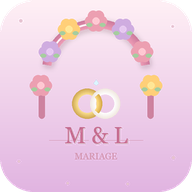
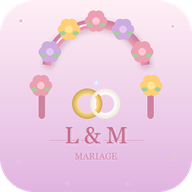
Inversion L & M : Leslie Vo en 1ère, Maxime Wolff en 2ème

Changed region(s): [[0.3438, 0.6562, 0.6875, 0.75]]

diff --git a/index.html b/index.html
@@ -99,7 +99,7 @@
   ctx.shadowBlur = 8;
   ctx.fillStyle = 'rgba(255,255,255,0.98)';
   ctx.font = 'bold 68px Georgia, serif';
-  ctx.fillText('M & L', 256, 418);
+  ctx.fillText('L & M', 256, 418);
   ctx.shadowBlur = 0;
 
   // Petites étoiles décoratives
@@ -358,9 +358,9 @@
 <div id="tab-accueil" class="tab active">
   <div class="card" style="background:linear-gradient(135deg,#fdf0f4,#fdf7e8); border-color:var(--rose);">
     <div style="display:flex;gap:12px;align-items:center;justify-content:center;flex-wrap:wrap;padding:8px 0;">
-      <span style="font-size:1.15rem;font-weight:600;color:var(--text);">Maxime Wolff</span>
-      <span style="font-size:1.3rem;">&#10084;</span>
       <span style="font-size:1.15rem;font-weight:600;color:var(--text);">Leslie Vo</span>
+      <span style="font-size:1.3rem;">&#10084;</span>
+      <span style="font-size:1.15rem;font-weight:600;color:var(--text);">Maxime Wolff</span>
     </div>
     <div class="countdown" id="countdown-display">
       <div class="count-unit"><div class="count-num" id="cd-days">—</div><div class="count-lbl">jours</div></div>
@@ -731,7 +731,7 @@
 <script>
 // ===== STATE =====
 let state = {
-  couple: { name1: 'Maxime Wolff', name2: 'Leslie Vo', date: '', lieu: '', locked: true },
+  couple: { name1: 'Leslie Vo', name2: 'Maxime Wolff', date: '', lieu: '', locked: true },
   guests: [],
   budget: { total: 0, items: [] },
   hotels: [],
@@ -1008,8 +1008,8 @@ function renderGuests() {
     tr.innerHTML = `
       <td><strong>${g.prenom} ${g.nom}</strong>${g.email ? '<br><small style="color:var(--text-light)">'+g.email+'</small>' : ''}</td>
       <td>${
-        g.cote === 'marie1' ? `<span style="background:#f0e8fd;color:#7b4fc9;padding:2px 8px;border-radius:10px;font-size:0.78rem;font-weight:600;">&#128100; ${state.couple.name1||'Marié·e 1'}</span>` :
-        g.cote === 'marie2' ? `<span style="background:#fde8f0;color:#c9748f;padding:2px 8px;border-radius:10px;font-size:0.78rem;font-weight:600;">&#128100; ${state.couple.name2||'Marié·e 2'}</span>` :
+        g.cote === 'marie1' ? `<span style="background:#fde8f0;color:#c9748f;padding:2px 8px;border-radius:10px;font-size:0.78rem;font-weight:600;">&#128100; ${state.couple.name1||'Mariée 1'}</span>` :
+        g.cote === 'marie2' ? `<span style="background:#f0e8fd;color:#7b4fc9;padding:2px 8px;border-radius:10px;font-size:0.78rem;font-weight:600;">&#128100; ${state.couple.name2||'Marié 2'}</span>` :
         g.cote === 'commun' ? '<span style="background:var(--green-light);color:#3d8060;padding:2px 8px;border-radius:10px;font-size:0.78rem;font-weight:600;">&#10084; Commun</span>' : '—'
       }</td>
       <td>
@@ -1317,10 +1317,10 @@ function renderAccueil() {
 // ===== RENDER ALL =====
 function renderAll() {
   renderCountdown();
-  state.couple.name1 = 'Maxime Wolff';
-  state.couple.name2 = 'Leslie Vo';
-  document.getElementById('opt-marie1').textContent = 'Côté Maxime Wolff';
-  document.getElementById('opt-marie2').textContent = 'Côté Leslie Vo';
+  state.couple.name1 = 'Leslie Vo';
+  state.couple.name2 = 'Maxime Wolff';
+  document.getElementById('opt-marie1').textContent = 'Côté Leslie Vo';
+  document.getElementById('opt-marie2').textContent = 'Côté Maxime Wolff';
   renderGuests();
   renderBudget();
   renderHotels();